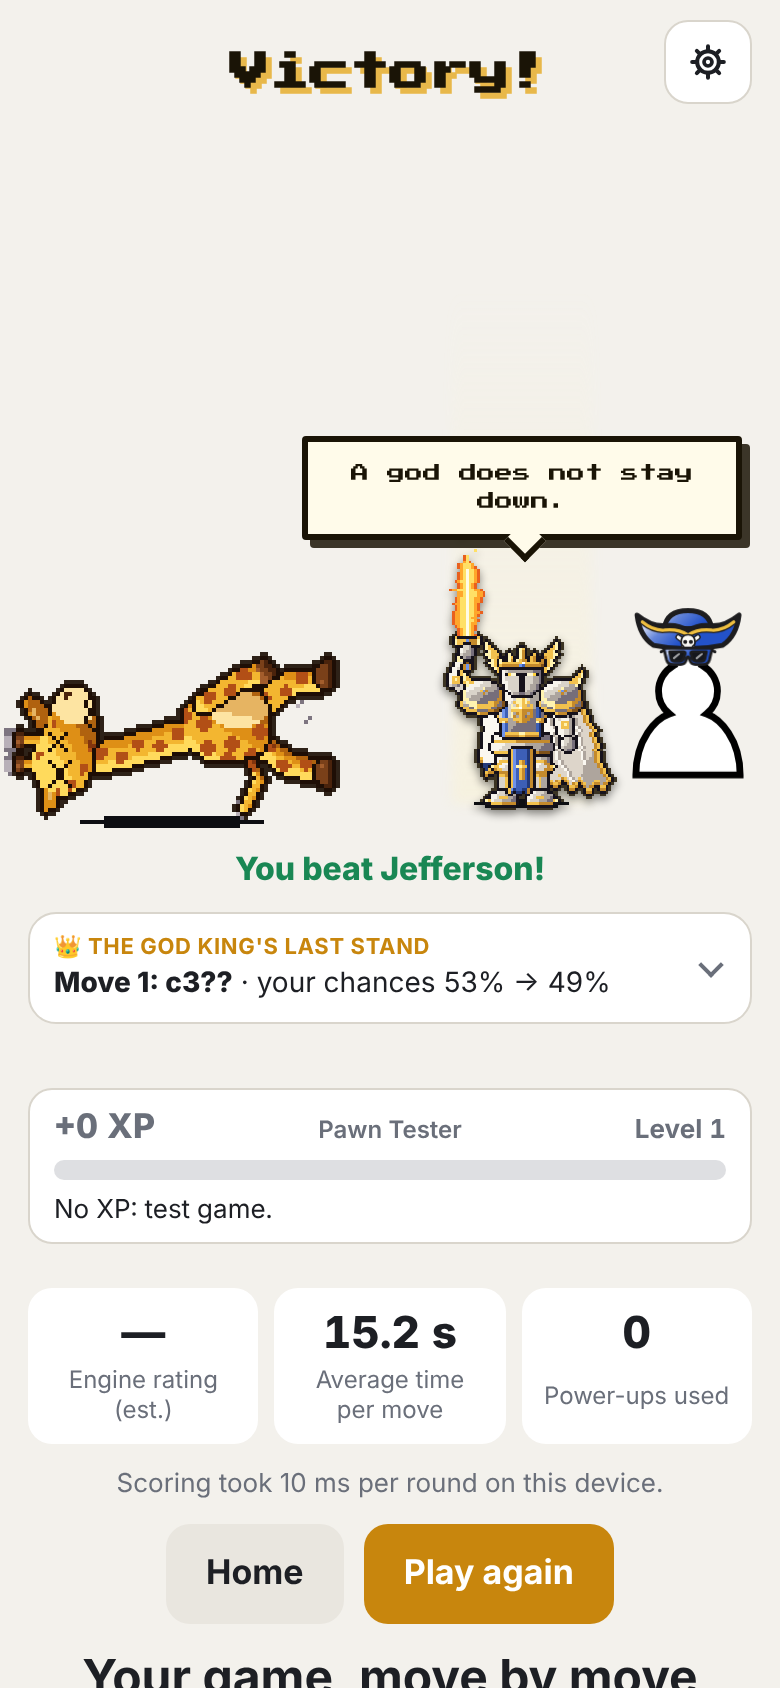
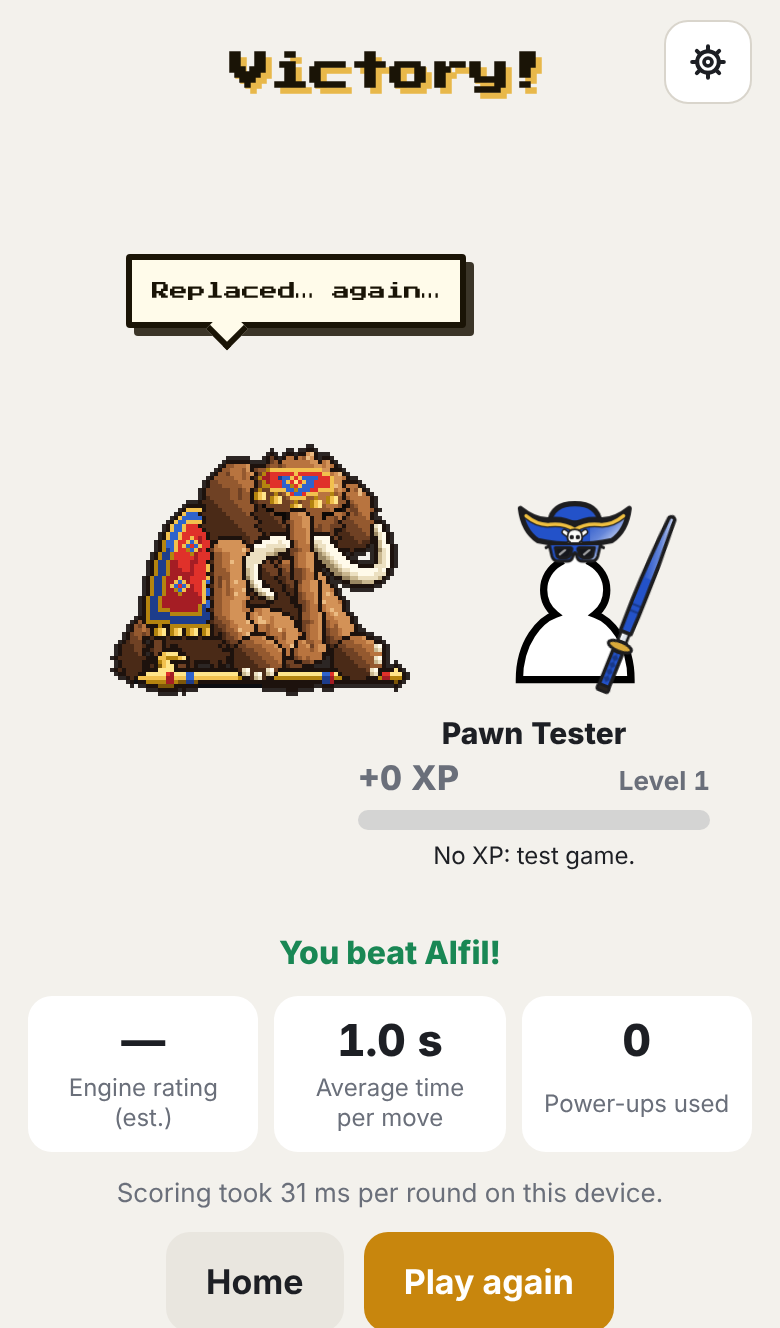
Boss result stills, round 2: the bigger pawn, dressed (pirate hat, dark shades, katana)
Claude-Session: https://claude.ai/code/session_01JuCWRsaru8sh3761MT3s2m

diff --git a/README.md b/README.md
@@ -1,10 +1,9 @@
-# Boss result v2 stills (Nov 9)
+# Boss result stills (round 2, Nov 9)
 
-Round 2 (Nov 9): Eric's pawn is bigger on the Last Stand row (`.results-duo`), and the stills show it dressed in a pirate hat and dark shades (no weapon: see .round2.md on claude/boss-result-v2). The win stills are real screens, taken from a Last Stand; the loss still below is still the round-1 one (undressed).
+At deviceScaleFactor 2, from a scratch run of the boss result row (`.rd-you`, `ResultDuo.tsx`) with the test player dressed in a pirate hat, dark shades and a katana.
 
-At deviceScaleFactor 2, from `scripts/frames-boss-result.mjs` (FULL=1; DSF=2 for the computer).
+- `phone-win-alfil.png`: a win against Alfil, 390 px. Your pawn is about 1.6x its old size.
+- `computer-win-folio.png`: a win against Folio (mirrored), 1280 px.
+- `phone-loss-hollow-mid-attack.png`: Hollow's attack on a loss, 1 s in, at 390 px: his strand stops short of your pawn.
 
-- `phone-win-alfil.png`: a win against Alfil, 390 px, dressed (round 2).
-- `phone-loss-ginger-mid-attack.png`: a loss to Ginger, 1.1 s in: his cane jab at your pawn, which flashes.
-- `computer-win-folio.png`: a win against Folio (mirrored), 1280 px, dressed (round 2).
-- `phone-loss-hollow-attack-strip.png`: Hollow attacking on a loss, 0.2 to 2.3 s (the row only).
+Not updated in this round: `phone-loss-hollow-attack-strip.png` (round 1, undressed).
